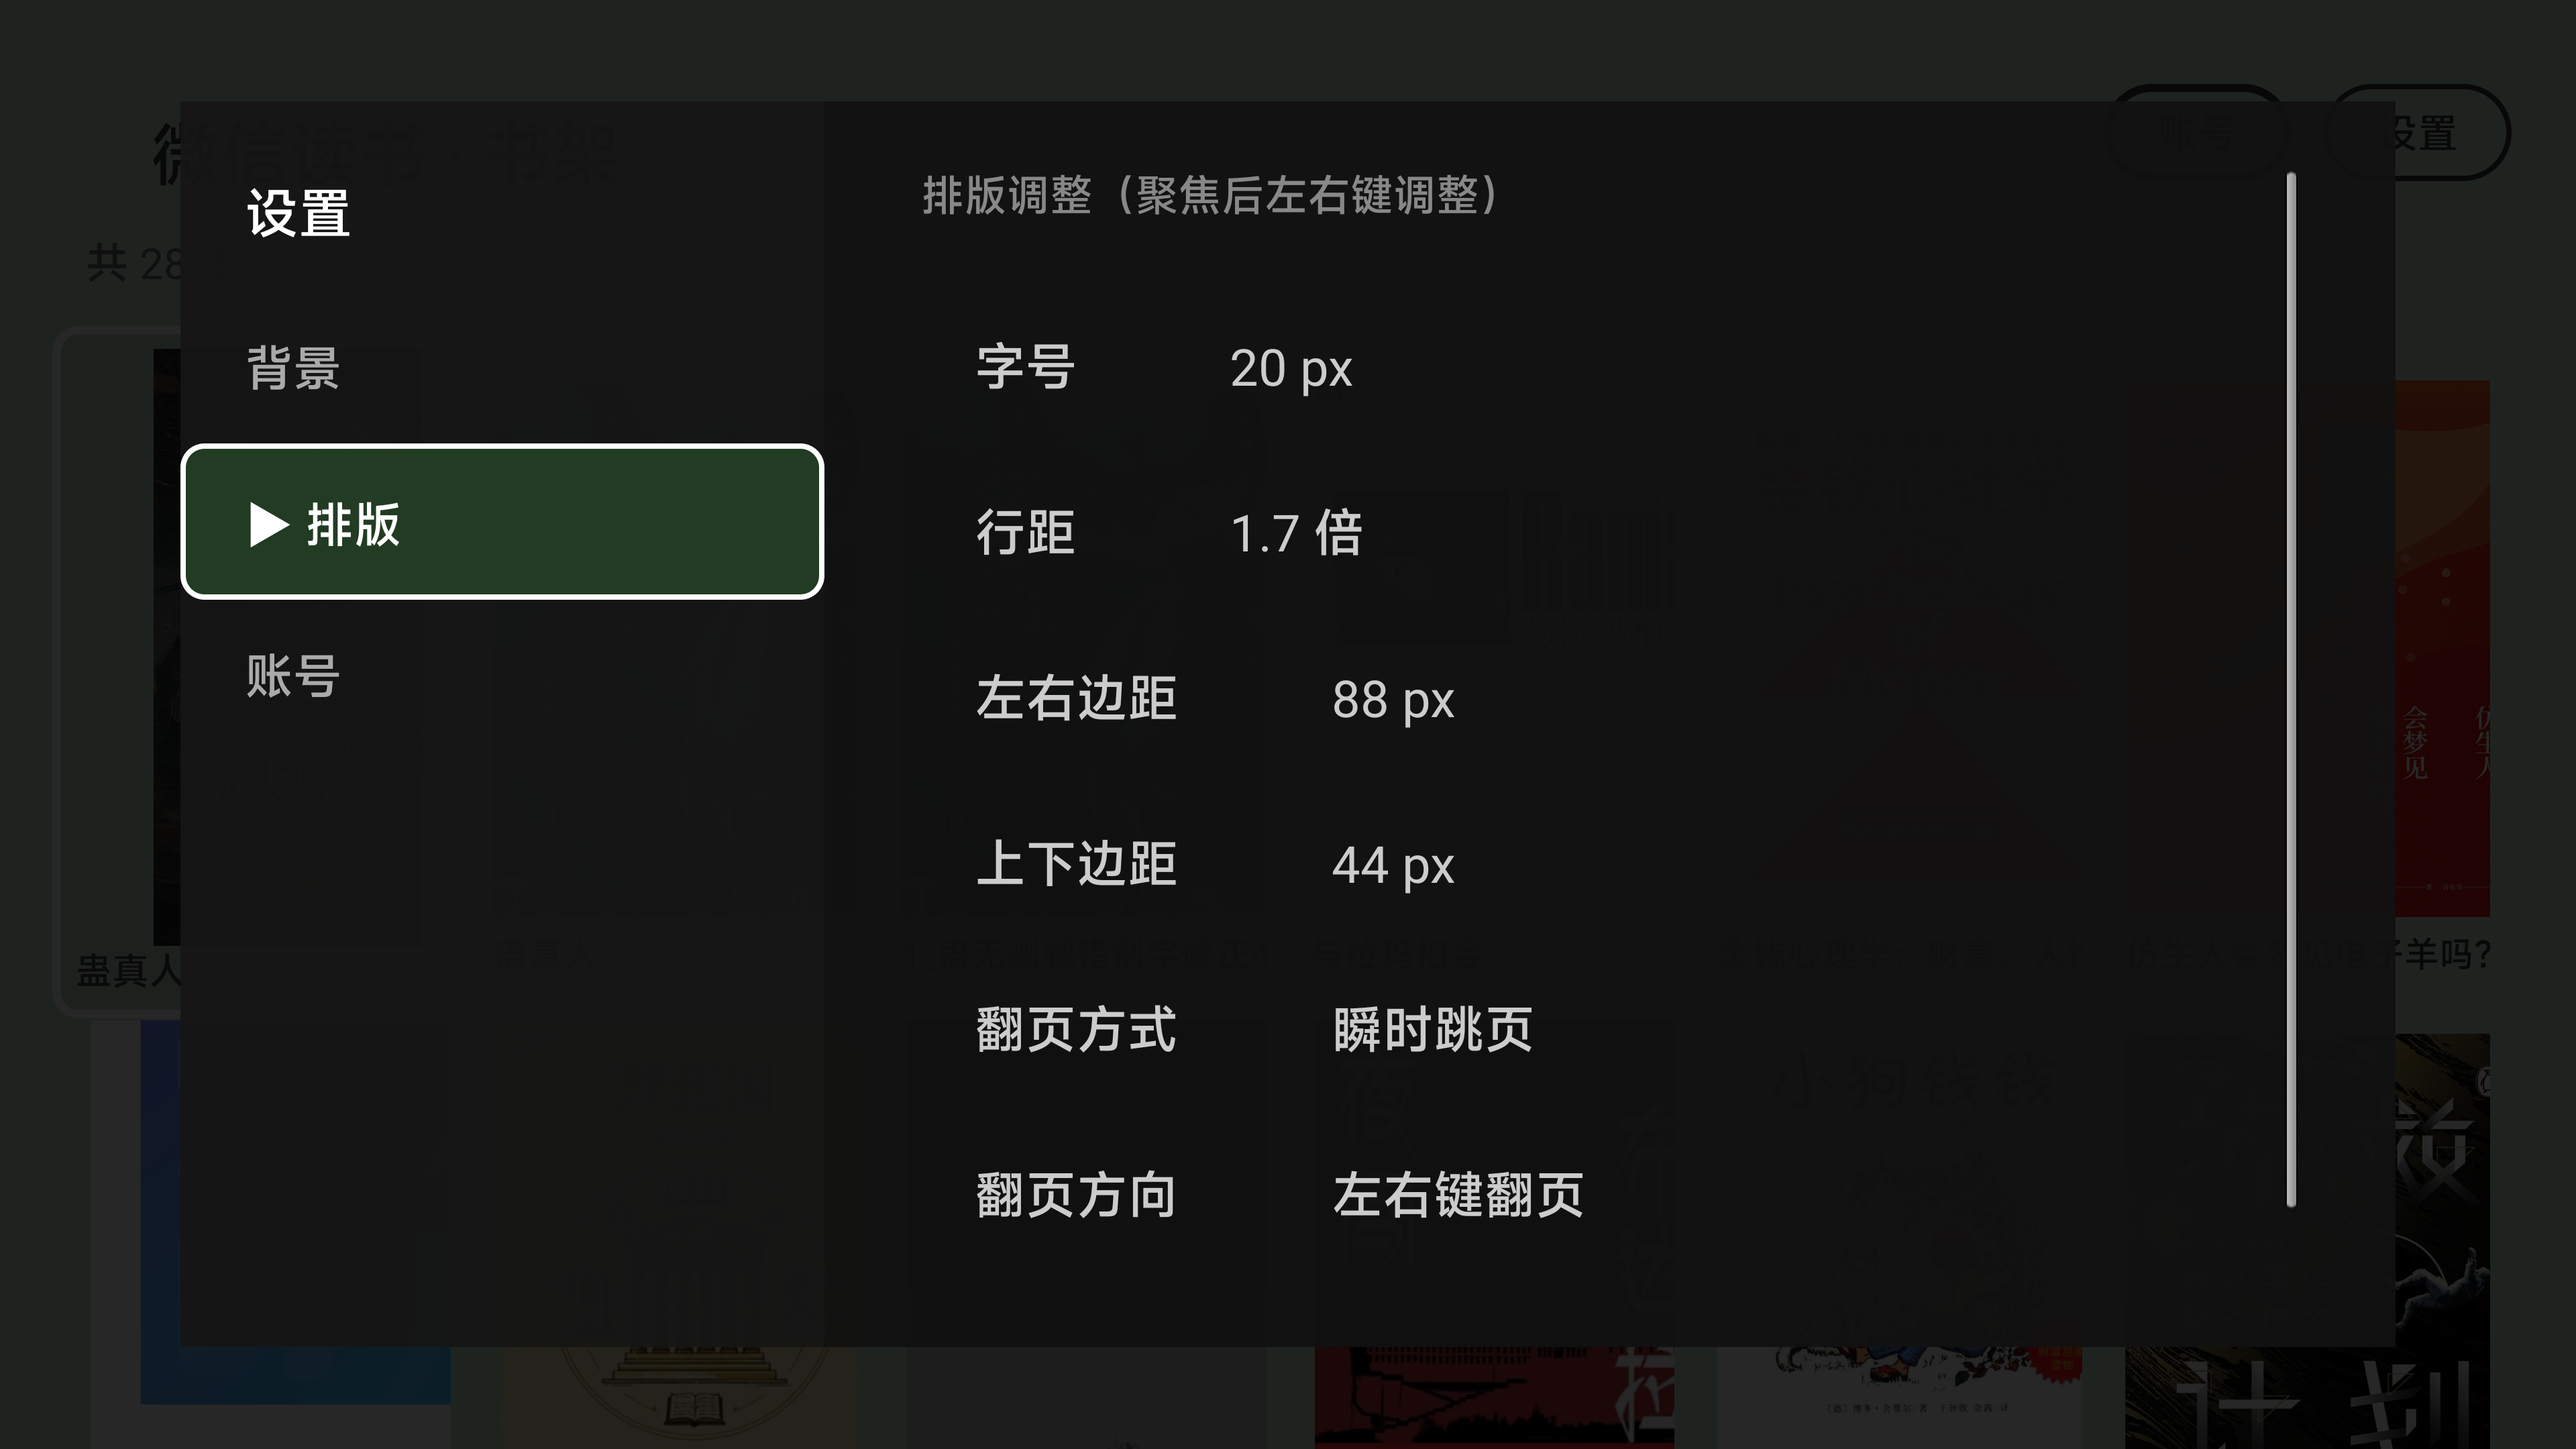
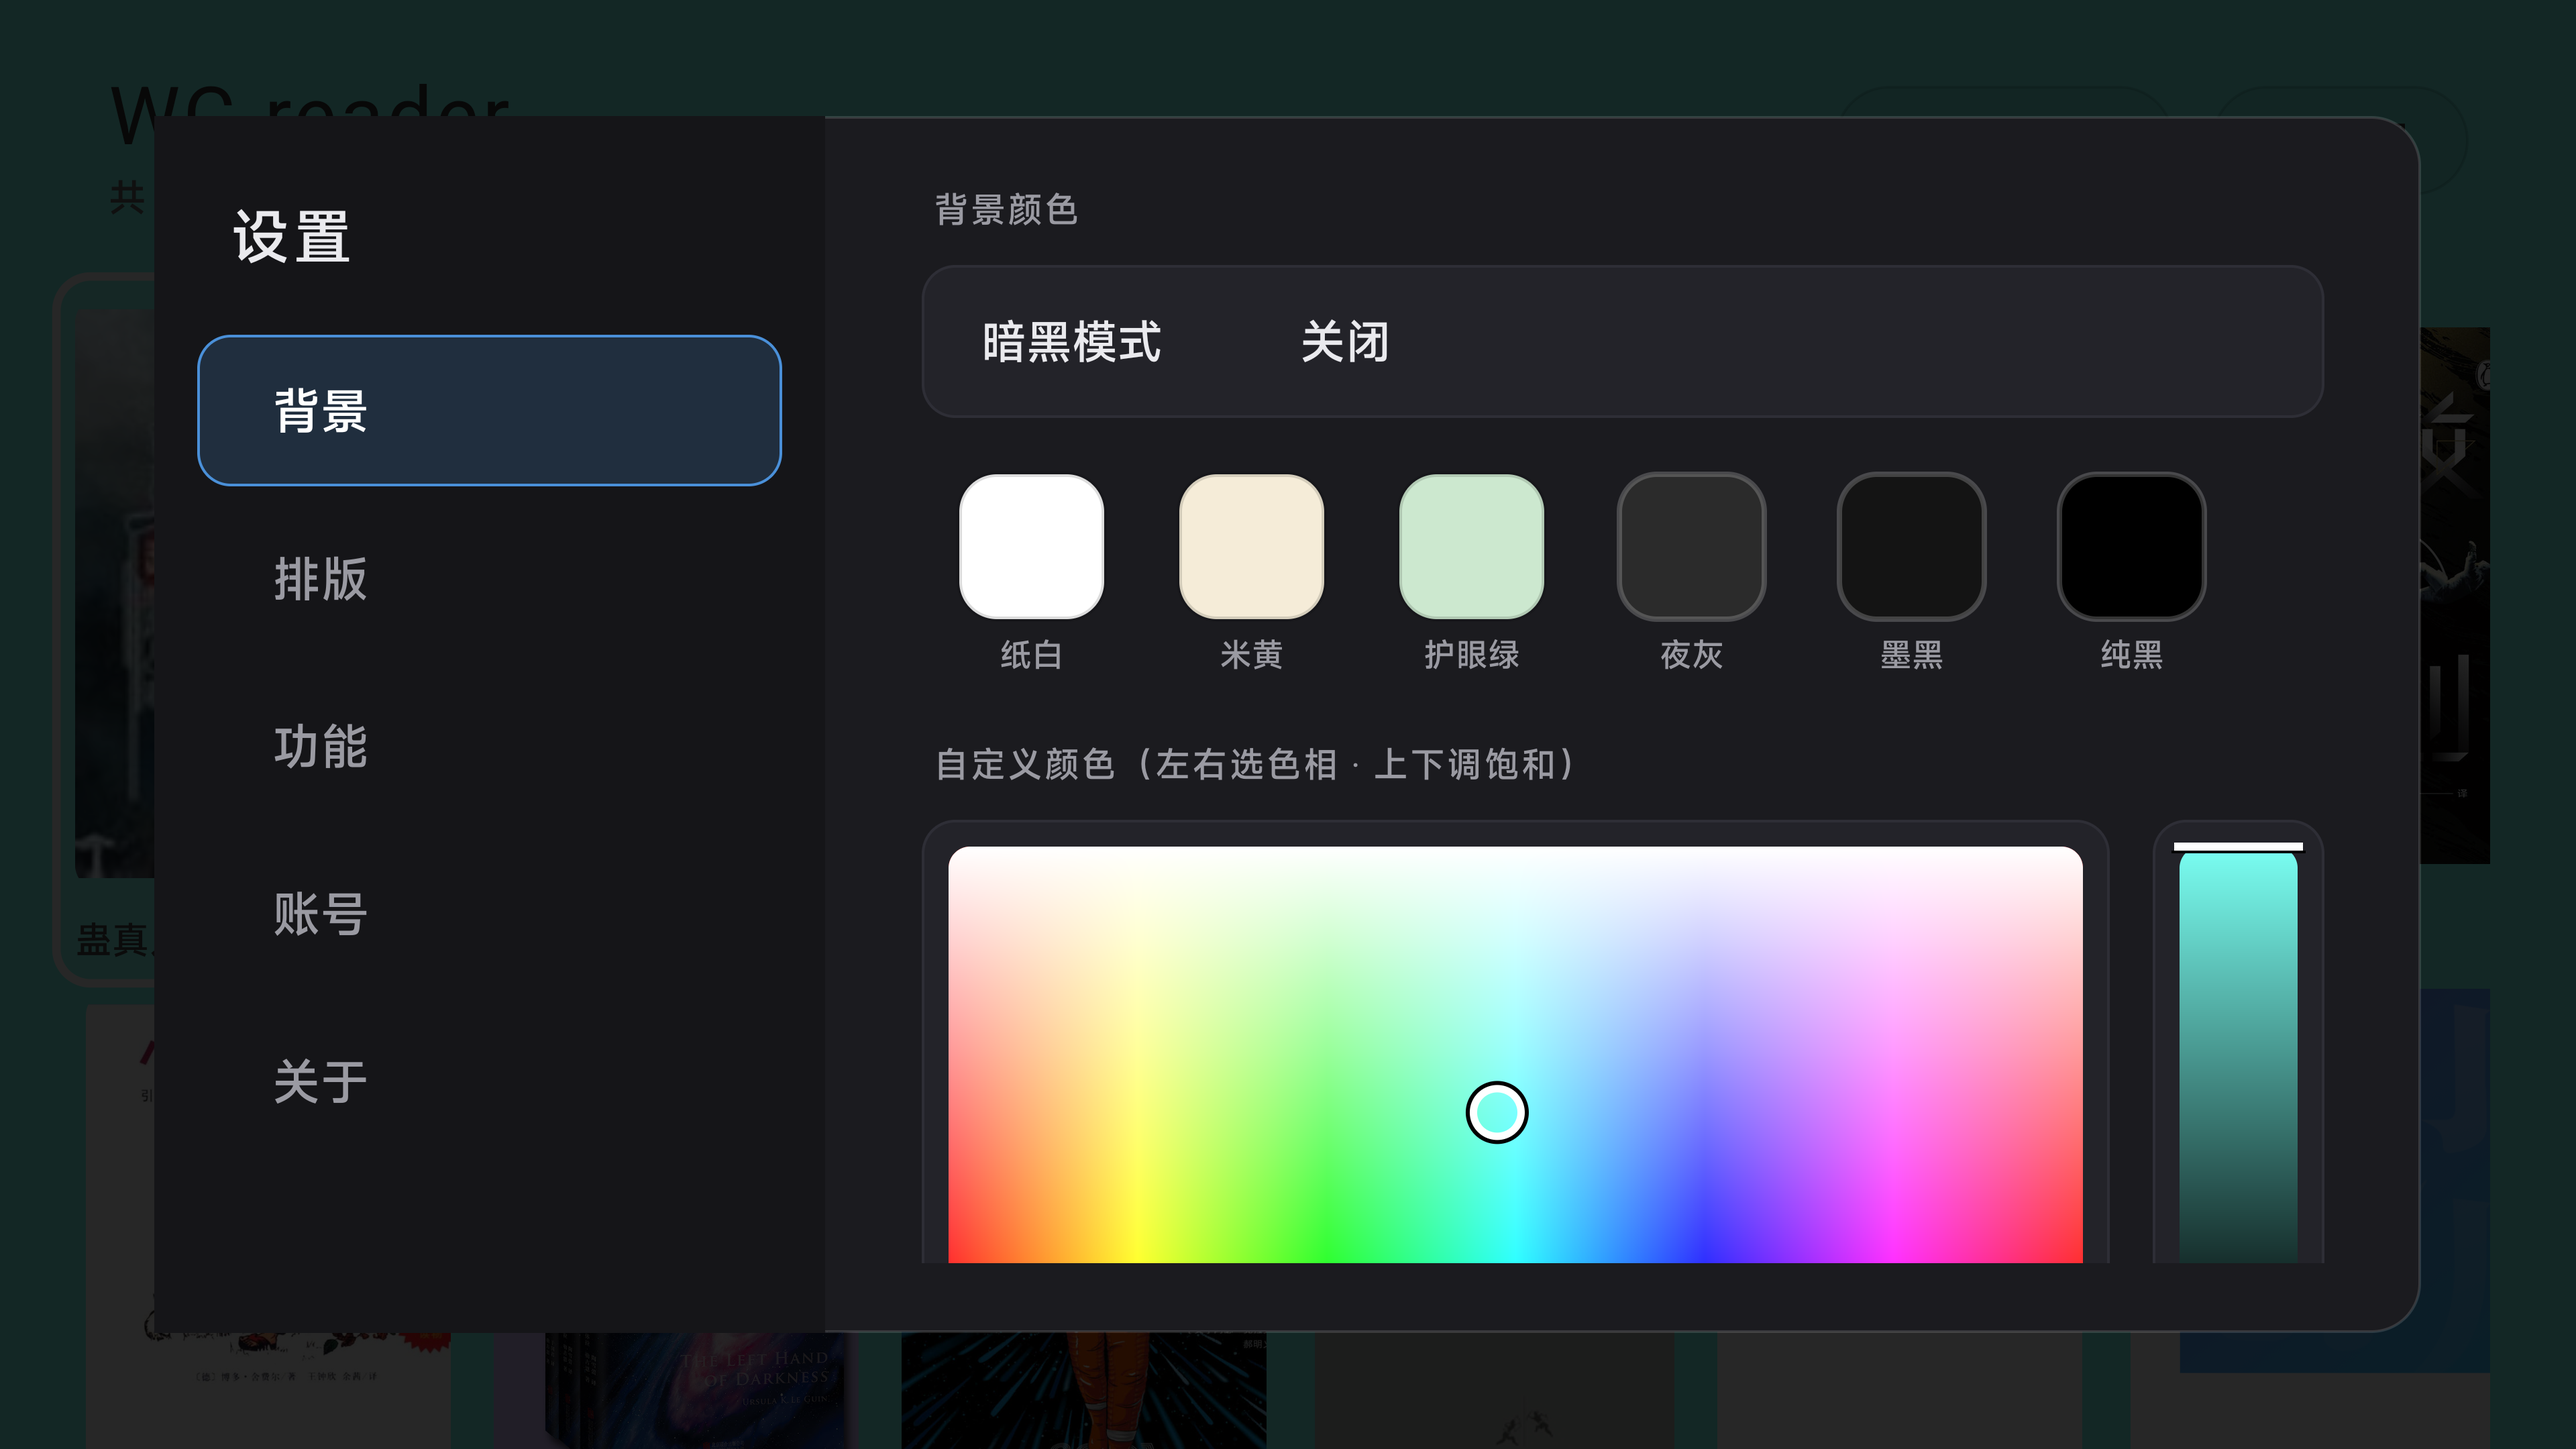
fix: 四角信息设置移入功能页；返回键分层返回；文字深浅更名文字浓淡

diff --git a/app/src/main/java/com/potaperper/wereadtv/ui/ThemePanel.kt b/app/src/main/java/com/potaperper/wereadtv/ui/ThemePanel.kt
@@ -65,7 +65,6 @@ class ThemePanel(
     private lateinit var longPressLabel: TextView
     private lateinit var textColorLabel: TextView
     private lateinit var textBrightnessLabel: TextView
-    private lateinit var cornerInfoLabel: TextView
     private lateinit var cornerInfoLabel2: TextView
     private lateinit var cornerTL: TextView
     private lateinit var cornerTR: TextView
@@ -436,15 +435,10 @@ class ThemePanel(
     private fun buildLayoutContent(): ViewGroup {
         fontSizeLabel = prefRow("字号")
         textColorLabel = prefRow("文字颜色")
-        textBrightnessLabel = prefRow("文字深浅")
+        textBrightnessLabel = prefRow("文字浓淡")
         lineHeightLabel = prefRow("行距")
         marginLabel = prefRow("左右边距")
         marginYLabel = prefRow("上下边距")
-        cornerInfoLabel = prefRow("四角信息")
-        cornerTL = prefRow("左上角")
-        cornerTR = prefRow("右上角")
-        cornerBL = prefRow("左下角")
-        cornerBR = prefRow("右下角")
         pageModeLabel = prefRow("翻页方式")
         dirMapLabel = prefRow("翻页方向")
         longPressLabel = prefRow("长按方向键")
@@ -460,12 +454,6 @@ class ThemePanel(
             addView(lineHeightLabel)
             addView(marginLabel)
             addView(marginYLabel)
-            addView(sectionTitle("四角信息"))
-            addView(cornerInfoLabel)
-            addView(cornerTL)
-            addView(cornerTR)
-            addView(cornerBL)
-            addView(cornerBR)
             addView(space(dip(14)))
             addView(sectionTitle("翻页"))
             addView(pageModeLabel)
@@ -488,6 +476,10 @@ class ThemePanel(
         fastJumpSecLabel = prefRow("长按触发时间")
         fastJumpChaptersLabel = prefRow("每次跳跃章数")
         cornerInfoLabel2 = prefRow("四角信息")
+        cornerTL = prefRow("左上角")
+        cornerTR = prefRow("右上角")
+        cornerBL = prefRow("左下角")
+        cornerBR = prefRow("右下角")
         refreshLayoutLabels()
 
         val col = LinearLayout(activity).apply {
@@ -503,10 +495,14 @@ class ThemePanel(
                 setLineSpacing(dip(3).toFloat(), 1.15f)
                 setPadding(dip(4), dip(4), dip(4), dip(18))
             })
-            addView(sectionTitle("阅读页"))
+            addView(sectionTitle("阅读页四角信息"))
             addView(cornerInfoLabel2)
+            addView(cornerTL)
+            addView(cornerTR)
+            addView(cornerBL)
+            addView(cornerBR)
             addView(TextView(activity).apply {
-                text = "四角显示的具体内容（时间 / 章节号 / 页数 / 进度 / 书名）可在「排版」页逐个设置。"
+                text = "四个角可以分别选择显示内容，选择「不显示」即可隐藏。"
                 textSize = 12f
                 setTextColor(TEXT_SUB)
                 setLineSpacing(dip(3).toFloat(), 1.15f)
@@ -534,7 +530,7 @@ class ThemePanel(
         val value = when (name) {
             "字号" -> "${activity.fontSizeSp.toInt()} px"
             "文字颜色" -> textColorOptions.firstOrNull { it.second == Theme.textColorOverride(activity) }?.first ?: "自动"
-            "文字深浅" -> "${Theme.textBrightness(activity)}%"
+            "文字浓淡" -> "${Theme.textBrightness(activity)}%"
             "行距" -> "${"%.1f".format(Theme.lineHeight(activity))} 倍"
             "左右边距" -> "${Theme.marginPx(activity)} px"
             "上下边距" -> "${Theme.marginYPx(activity)} px"
@@ -563,15 +559,10 @@ class ThemePanel(
     private fun refreshLayoutLabels() {
         stylePrefRow(fontSizeLabel, "字号", fontSizeLabel.hasFocus())
         stylePrefRow(textColorLabel, "文字颜色", textColorLabel.hasFocus())
-        stylePrefRow(textBrightnessLabel, "文字深浅", textBrightnessLabel.hasFocus())
+        stylePrefRow(textBrightnessLabel, "文字浓淡", textBrightnessLabel.hasFocus())
         stylePrefRow(lineHeightLabel, "行距", lineHeightLabel.hasFocus())
         stylePrefRow(marginLabel, "左右边距", marginLabel.hasFocus())
         stylePrefRow(marginYLabel, "上下边距", marginYLabel.hasFocus())
-        stylePrefRow(cornerInfoLabel, "四角信息", cornerInfoLabel.hasFocus())
-        stylePrefRow(cornerTL, "左上角", cornerTL.hasFocus())
-        stylePrefRow(cornerTR, "右上角", cornerTR.hasFocus())
-        stylePrefRow(cornerBL, "左下角", cornerBL.hasFocus())
-        stylePrefRow(cornerBR, "右下角", cornerBR.hasFocus())
         stylePrefRow(pageModeLabel, "翻页方式", pageModeLabel.hasFocus())
         stylePrefRow(dirMapLabel, "翻页方向", dirMapLabel.hasFocus())
         stylePrefRow(longPressLabel, "长按方向键", longPressLabel.hasFocus())
@@ -579,6 +570,10 @@ class ThemePanel(
             stylePrefRow(fastJumpSecLabel, "长按触发时间", fastJumpSecLabel.hasFocus())
             stylePrefRow(fastJumpChaptersLabel, "每次跳跃章数", fastJumpChaptersLabel.hasFocus())
             stylePrefRow(cornerInfoLabel2, "四角信息", cornerInfoLabel2.hasFocus())
+            stylePrefRow(cornerTL, "左上角", cornerTL.hasFocus())
+            stylePrefRow(cornerTR, "右上角", cornerTR.hasFocus())
+            stylePrefRow(cornerBL, "左下角", cornerBL.hasFocus())
+            stylePrefRow(cornerBR, "右下角", cornerBR.hasFocus())
         }
         if (::darkModeLabel.isInitialized) {
             stylePrefRow(darkModeLabel, "暗黑模式", darkModeLabel.hasFocus())
@@ -705,11 +700,13 @@ class ThemePanel(
             }
             TAB_LAYOUT -> listOf(
                 fontSizeLabel, textColorLabel, textBrightnessLabel, lineHeightLabel,
-                marginLabel, marginYLabel, cornerInfoLabel,
-                cornerTL, cornerTR, cornerBL, cornerBR,
+                marginLabel, marginYLabel,
                 pageModeLabel, dirMapLabel, longPressLabel,
             )
-            TAB_EXTRA -> listOf(fastJumpSecLabel, fastJumpChaptersLabel, cornerInfoLabel2)
+            TAB_EXTRA -> listOf(
+                fastJumpSecLabel, fastJumpChaptersLabel, cornerInfoLabel2,
+                cornerTL, cornerTR, cornerBL, cornerBR,
+            )
             TAB_ACCOUNT -> contentAccount.findAllFocusableViews()
             else -> contentAbout.findAllFocusableViews()
         }
@@ -736,7 +733,23 @@ class ThemePanel(
     override fun dispatchKeyEvent(event: KeyEvent): Boolean {
         if (event.action != KeyEvent.ACTION_DOWN) return super.dispatchKeyEvent(event)
         when (event.keyCode) {
-            KeyEvent.KEYCODE_BACK -> { onDismiss(); return true }
+            KeyEvent.KEYCODE_BACK -> {
+                if (hexInput.hasFocus()) {
+                    hideIme()
+                    hexApply.requestFocus()
+                    return true
+                }
+                val focusedView = findFocus()
+                val inNav = focusedView != null && navItems.any { it === focusedView }
+                if (focusedView != null && !inNav) {
+                    // 先回到左侧导航，再按一次才退出设置
+                    contentFocused = false
+                    navBg.requestFocus()
+                    return true
+                }
+                onDismiss()
+                return true
+            }
             KeyEvent.KEYCODE_DPAD_LEFT, KeyEvent.KEYCODE_DPAD_RIGHT -> {
                 val dir = if (event.keyCode == KeyEvent.KEYCODE_DPAD_LEFT) -1 else +1
                 if (tab == TAB_LAYOUT || tab == TAB_EXTRA) {
@@ -827,7 +840,7 @@ class ThemePanel(
             lineHeightLabel -> adjLineHeight(if (dir > 0) 0.1f else -0.1f)
             marginLabel -> adjMargin(if (dir > 0) 8 else -8)
             marginYLabel -> adjMarginY(if (dir > 0) 8 else -8)
-            cornerInfoLabel, cornerInfoLabel2 -> {
+            cornerInfoLabel2 -> {
                 Theme.setShowCornerInfo(activity, !Theme.showCornerInfo(activity))
                 refreshLayoutLabels()
                 activity.onCornerInfoChanged()
@@ -927,6 +940,15 @@ class ThemePanel(
 
     private fun dip(v: Int): Int = (v * resources.displayMetrics.density).toInt()
     private fun dip(v: Float): Int = (v * resources.displayMetrics.density).toInt()
+
+    private fun hideIme() {
+        try {
+            val imm = context.getSystemService(android.content.Context.INPUT_METHOD_SERVICE)
+                as android.view.inputmethod.InputMethodManager
+            imm.hideSoftInputFromWindow(hexInput.windowToken, 0)
+        } catch (_: Exception) {
+        }
+    }
 
     /**
      * 连续色盘：横轴色相（0-360°），纵轴饱和度（0-1），明度由右侧滑块控制。
